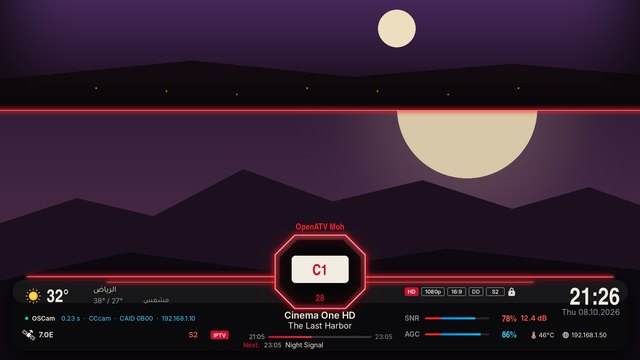
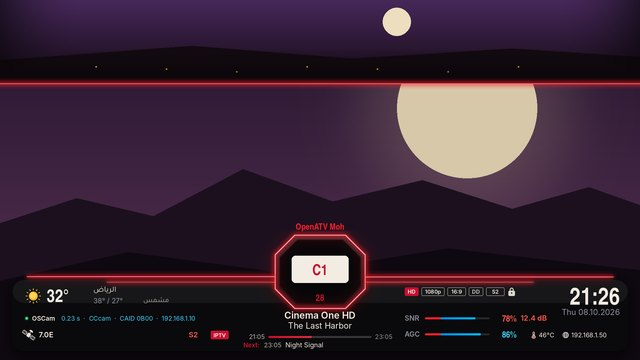
MohammedSkin 2.1.60 files

Changed region(s): [[0.0, 0.0, 1.0, 0.3361]]

diff --git a/usr/lib/enigma2/python/Plugins/Extensions/MohammedSkin/lang.py b/usr/lib/enigma2/python/Plugins/Extensions/MohammedSkin/lang.py
@@ -95,7 +95,7 @@ AR = {
 	"Show posters in the infobars and channel list.": u"إظهار البوسترات في الإنفوبار وقائمة القنوات.",
 	"Show backdrops behind the event.": u"إظهار الخلفيات ورا البرنامج.",
 	"14  Emblem - glowing lines": u"14  الشعار - خطوط مضيئة", "Backdrop above the infobar": u"خلفية البرنامج فوق الإنفوبار",
-	"Shows the programme's backdrop at the top of the screen while the infobar is shown (infobar 14). Saving restarts the GUI.": u"يعرض خلفية البرنامج أعلى الشاشة مع ظهور الإنفوبار (الإنفوبار 14). الحفظ يعيد تشغيل الواجهة.",
+	"The programme's backdrop at the top of the screen while the infobar is shown (infobar 14): a wide band, a box in the middle, left or right, or off. Saving restarts the GUI.": u"خلفية البرنامج أعلى الشاشة مع ظهور الإنفوبار (الإنفوبار 14): شريط عريض، أو مربع في الوسط أو اليسار أو اليمين، أو إيقاف. الحفظ يعيد تشغيل الواجهة.", "Wide band at the top": u"شريط عريض أعلى الشاشة", "Box at the top centre": u"مربع أعلى الوسط", "Box at the top left": u"مربع أعلى اليسار", "Box at the top right": u"مربع أعلى اليمين",
 	"Fit plugin windows to the screen": u"تكييف نوافذ البلقنات مع السكن", "Plugin windows that have no design in this skin get one in the skin's style automatically; windows with pictures keep their own look, enlarged to the screen. Works after the next GUI restart.": u"نوافذ البلقنات اللي ما لها تصميم في السكن تاخذ ستايل السكن تلقائي، والنوافذ اللي فيها صور تحتفظ بشكلها وتتكبر على الشاشة. يشتغل بعد إعادة تشغيل الواجهة.",
 	"Size of the channel names, numbers and event text in the channel list. Saving restarts the GUI.": u"حجم أسماء القنوات وأرقامها ونص البرامج في القائمة. الحفظ يعيد تشغيل الواجهة.",
 	"Height of each channel row: compact shows more channels, large and extra large show fewer and bigger. Saving restarts the GUI.": u"ارتفاع كل صف: المضغوط يعرض قنوات أكثر، والكبير قنوات أقل وأكبر. الحفظ يعيد تشغيل الواجهة.",

diff --git a/usr/lib/enigma2/python/Components/MohammedSkinUtils.py b/usr/lib/enigma2/python/Components/MohammedSkinUtils.py
@@ -25,7 +25,7 @@ NEGATIVE_TTL = 30 * 60  # retry titles that found nothing after 30 minutes
 TIMEOUT = 5
 UA = "Mozilla/5.0 (Enigma2; MohammedSkin)"
 
-SKIN_VERSION = "2.1.59"
+SKIN_VERSION = "2.1.60"
 
 UPDATE_BASE = "https://raw.githubusercontent.com/mido00020/MohammedSkin/main"
 UPDATE_CMD = 'wget -q --no-check-certificate "%s/installer.sh" -O - | NORESTART=1 /bin/sh' % UPDATE_BASE
@@ -51,7 +51,7 @@ DEFAULT_SETTINGS = {
 	"family": "",                # vix (OpenViX / OpenBH) or atv (OpenATV / PurE2 / EGAMI)
 	"ch_font": "normal",         # channel list text: small | normal | large | xlarge
 	"ch_preview": "poster",
-	"fit_screens": True, "ib_backdrop": True,  # windows of plugins made for smaller screens are scaled up to full HD
+	"fit_screens": True, "ib_backdrop": "band",  # windows of plugins made for smaller screens are scaled up to full HD
 	"event_color": "default",     # colour of the event name next to each channel      # channel list picture: poster | live
 	"ch_rows": "normal",         # channel list rows: compact | normal | large | xlarge
 	"pl_font": "normal",         # plugin list text and rows: small | normal | large | xlarge
@@ -2320,9 +2320,25 @@ def _chan_row(snippet):
 	return re.sub(r"<!-- CHANROW START -->.*?<!-- CHANROW END -->", grow, snippet, flags=re.S)
 
 
+IB_BACKDROP = (("band", "Wide band at the top"), ("center", "Box at the top centre"), ("left", "Box at the top left"),
+	("right", "Box at the top right"), ("off", "Off"))
+
+
+def ib_backdrop():
+	v = settings().get("ib_backdrop", "band")
+	if v is True:
+		return "band"
+	if v is False:
+		return "off"
+	return v if v in [n for n, l in IB_BACKDROP] else "band"
+
+
 def _tune_infobar(snippet, base):
-	if not settings().get("ib_backdrop", True):  # setup: backdrop above the infobar off
-		snippet = re.sub(r"[ \t]*<!-- IBBACKDROP START -->.*?<!-- IBBACKDROP END -->\n?", "", snippet, flags=re.S)
+	shape = ib_backdrop()  # setup: backdrop above the infobar (a shape, or off): keep only that block
+
+	def keep(m):
+		return m.group(0) if m.group(1) == shape else ""
+	snippet = re.sub(r"[ \t]*<!-- IBBACKDROP START \((\w+)\) -->.*?<!-- IBBACKDROP END -->\n?", keep, snippet, flags=re.S)
 	snippet = _weather_place(snippet)
 	snippet = _chan_row(snippet)
 	level = tune_value("ib_alpha", IB_ALPHA)

diff --git a/usr/lib/enigma2/python/Plugins/Extensions/MohammedSkin/plugin.py b/usr/lib/enigma2/python/Plugins/Extensions/MohammedSkin/plugin.py
@@ -257,7 +257,7 @@ class MohammedSkinSetup(Screen):
 			("strict", t("Strict (also nudity, R and TV-MA)"))], default=U.adult_level())
 		self.backdrops = ConfigYesNo(default=bool(s.get("backdrops", True)))
 		self.fitScreens = ConfigYesNo(default=bool(s.get("fit_screens", True)))
-		self.ibBackdrop = ConfigYesNo(default=bool(s.get("ib_backdrop", True)))
+		self.ibBackdrop = ConfigSelection(choices=[(n, t(l)) for n, l in U.IB_BACKDROP], default=U.ib_backdrop())
 		self.startBackdrop = self.ibBackdrop.value
 		self.uiLang = ConfigSelection(choices=list(UI_LANGS), default=L)
 		self.helptext = {
@@ -298,7 +298,7 @@ class MohammedSkinSetup(Screen):
 			id(self.plLayout): "Plugin list (Menu > Plugins) as tiles side by side or as a list. The grid needs a recent image (OpenViX / OpenBH 6.7+ or OpenATV). Saving restarts the GUI.",
 			id(self.logo3d): "When a channel has no event, no poster was found or the poster is hidden, show its logo on a 3D card instead.",
 			id(self.uiLang): "Language of this setup screen. Saving switches it at once.",
-			id(self.ibBackdrop): "Shows the programme's backdrop at the top of the screen while the infobar is shown (infobar 14). Saving restarts the GUI.",
+			id(self.ibBackdrop): "The programme's backdrop at the top of the screen while the infobar is shown (infobar 14): a wide band, a box in the middle, left or right, or off. Saving restarts the GUI.",
 			id(self.fitScreens): "Plugin windows that have no design in this skin get one in the skin's style automatically; windows with pictures keep their own look, enlarged to the screen. Works after the next GUI restart.",
 			id(self.logoStyle): "What a channel with no programme or no poster shows: a 3D card, its logo filling the whole place over its own colours, or the logo on a dark background.",
 			id(self.posterStore): "In memory: posters are fetched again after every restart (nothing is written to the box). Kept: they are saved on the hard disk or USB stick and shown at once next time.",
